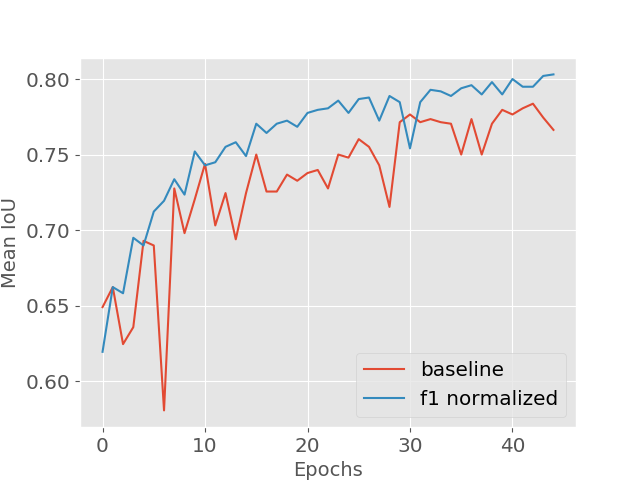
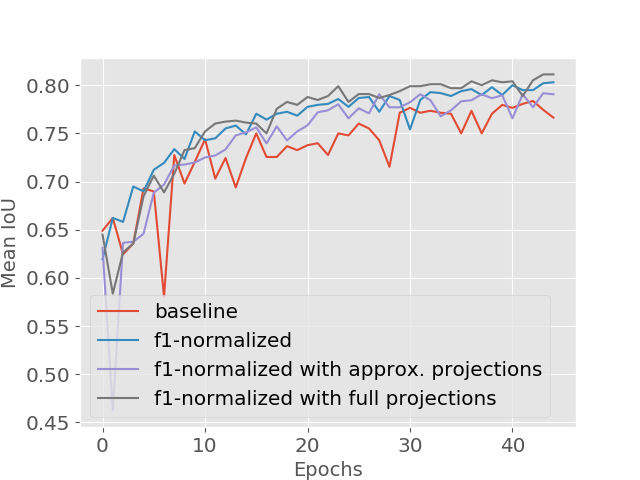
stop for now

diff --git a/scripts/coco_stuff_comparison/plot.py b/scripts/coco_stuff_comparison/plot.py
@@ -25,10 +25,24 @@ if __name__ == "__main__":
         for row in csv_reader:
             f1_ys.append(float(row[1]))
 
+    f1_ap_ys = []
+    with open(Path("./f1_ap")) as csv_file:
+        csv_reader = csv.reader(csv_file, delimiter=',')
+        for row in csv_reader:
+            f1_ap_ys.append(float(row[1]))
+
+    f1_fp_ys = []
+    with open(Path("./f1_fp")) as csv_file:
+        csv_reader = csv.reader(csv_file, delimiter=',')
+        for row in csv_reader:
+            f1_fp_ys.append(float(row[1]))
+
     plt.style.use('ggplot')
     fig, ax = plt.subplots()
     ax.plot(baseline_ys, label="baseline")
-    ax.plot(f1_ys, label="f1 normalized")
+    ax.plot(f1_ys, label="f1-normalized")
+    ax.plot(f1_ap_ys, label="f1-normalized with approx. projections")
+    ax.plot(f1_fp_ys, label="f1-normalized with full projections")
     ax.set_xlabel("Epochs", fontsize=14)
     ax.set_ylabel("Mean IoU", fontsize=14)
     ax.legend()
